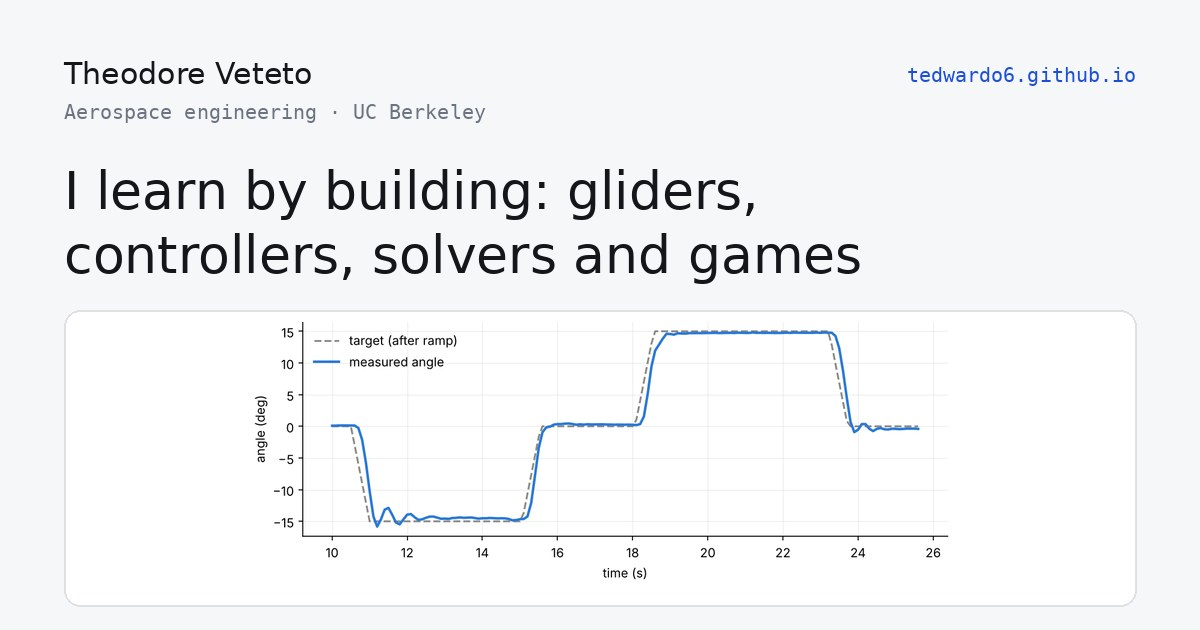
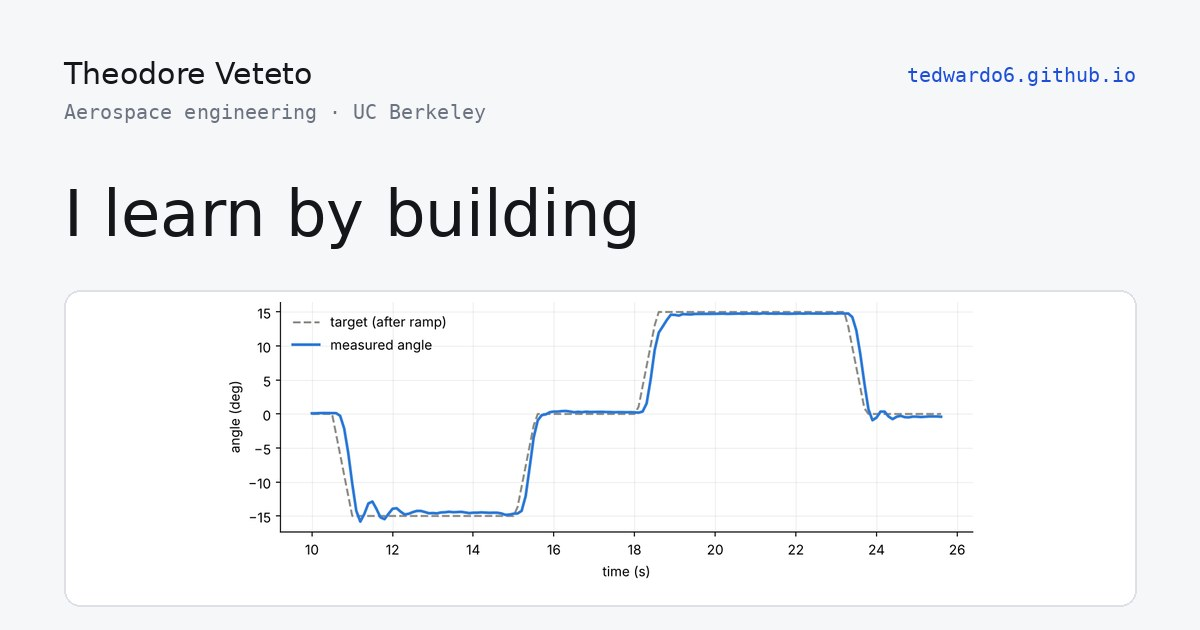
Shorten the headline, rename the AI tab, drop the footer credit
Claude-Session: https://claude.ai/code/session_01Rm4477XqPMhuncMcxgqx4e

diff --git a/index.html b/index.html
@@ -171,7 +171,7 @@ button.head:focus-visible { outline-offset: -2px; }
       <p class="name">Theodore Veteto</p>
       <span class="meta mono">Aerospace engineering · UC Berkeley · Graduating fall 2028</span>
     </div>
-    <h1 class="rise" style="animation-delay:50ms">I learn by building: gliders, controllers, solvers and games</h1>
+    <h1 class="rise" style="animation-delay:50ms">I learn by building</h1>
     <p class="lede rise" style="animation-delay:100ms">A running log of my engineering projects and the things I'm building with AI, newest first.</p>
     <div class="contact rise" style="animation-delay:150ms">
       <span class="email mono" id="email">theodoreveteto@gmail.com</span>
@@ -184,7 +184,7 @@ button.head:focus-visible { outline-offset: -2px; }
   <section class="rise" style="animation-delay:200ms">
     <div class="tabs" role="tablist" aria-label="Log sections">
       <button class="tab" role="tab" id="tab-projects" data-tab="projects" aria-selected="true">Projects <span class="count mono"></span></button>
-      <button class="tab" role="tab" id="tab-ai" data-tab="ai" aria-selected="false">Built with AI <span class="count mono"></span></button>
+      <button class="tab" role="tab" id="tab-ai" data-tab="ai" aria-selected="false">Building with AI <span class="count mono"></span></button>
       <span class="indicator" aria-hidden="true"></span>
     </div>
     <ul class="log" id="log" role="tabpanel"></ul>
@@ -192,7 +192,6 @@ button.head:focus-visible { outline-offset: -2px; }
 
   <footer class="mono">
     <span>Log updated 2026-11</span>
-    <span>Built by hand with Claude</span>
   </footer>
 </main>
 
